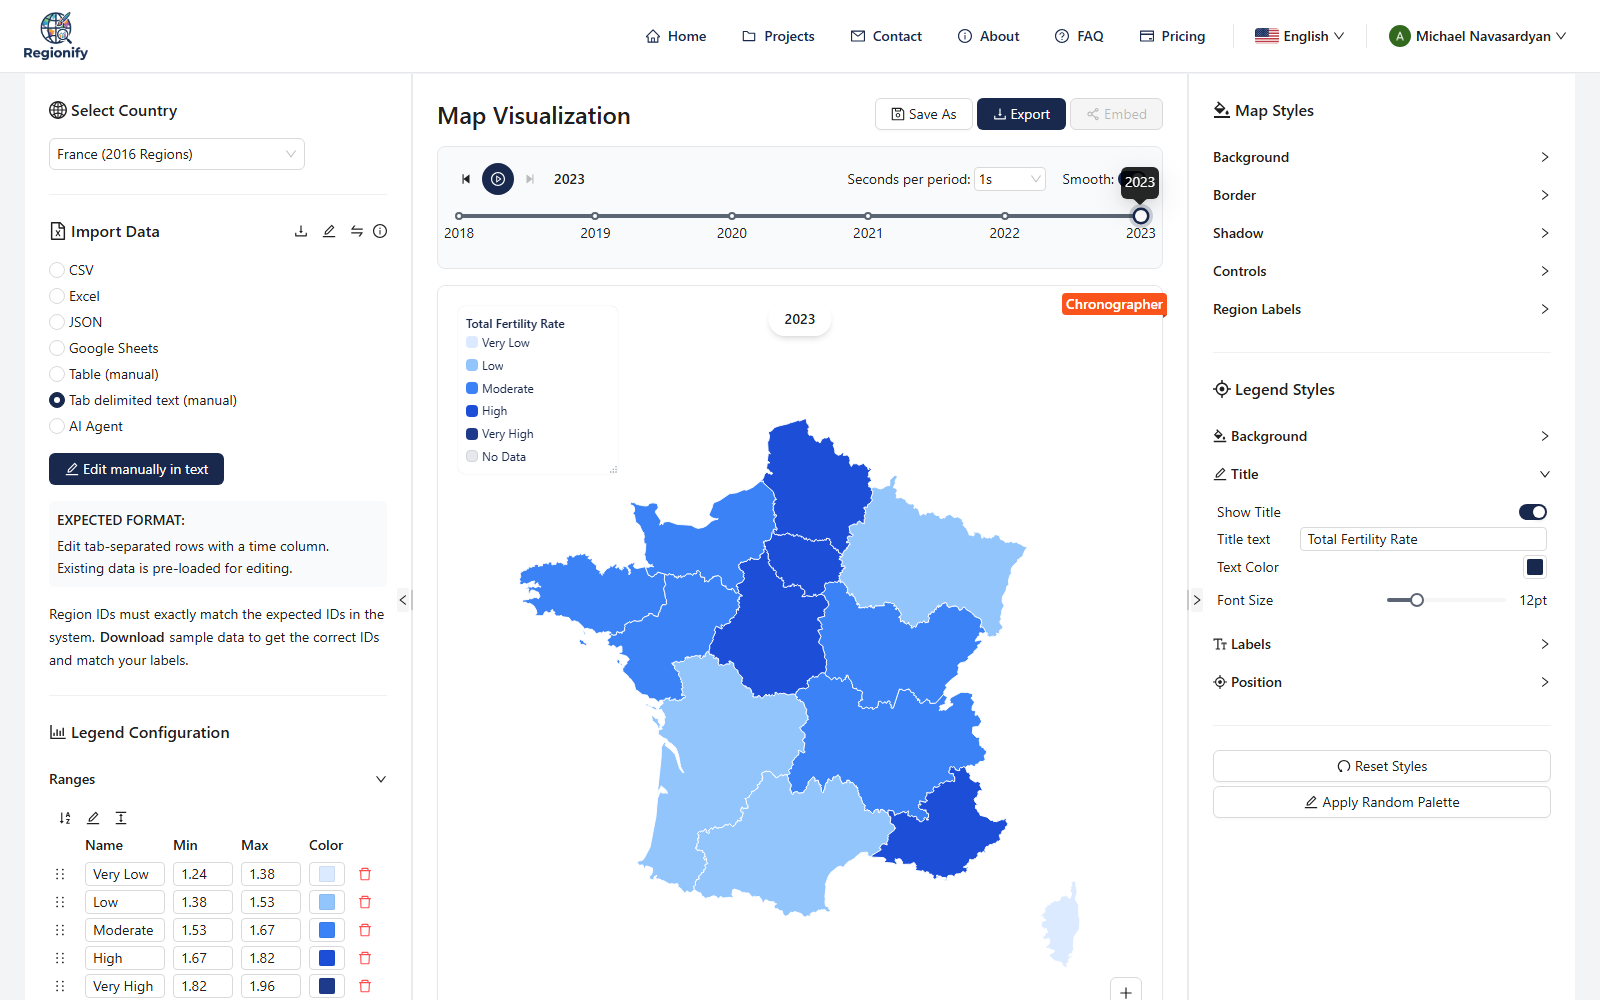
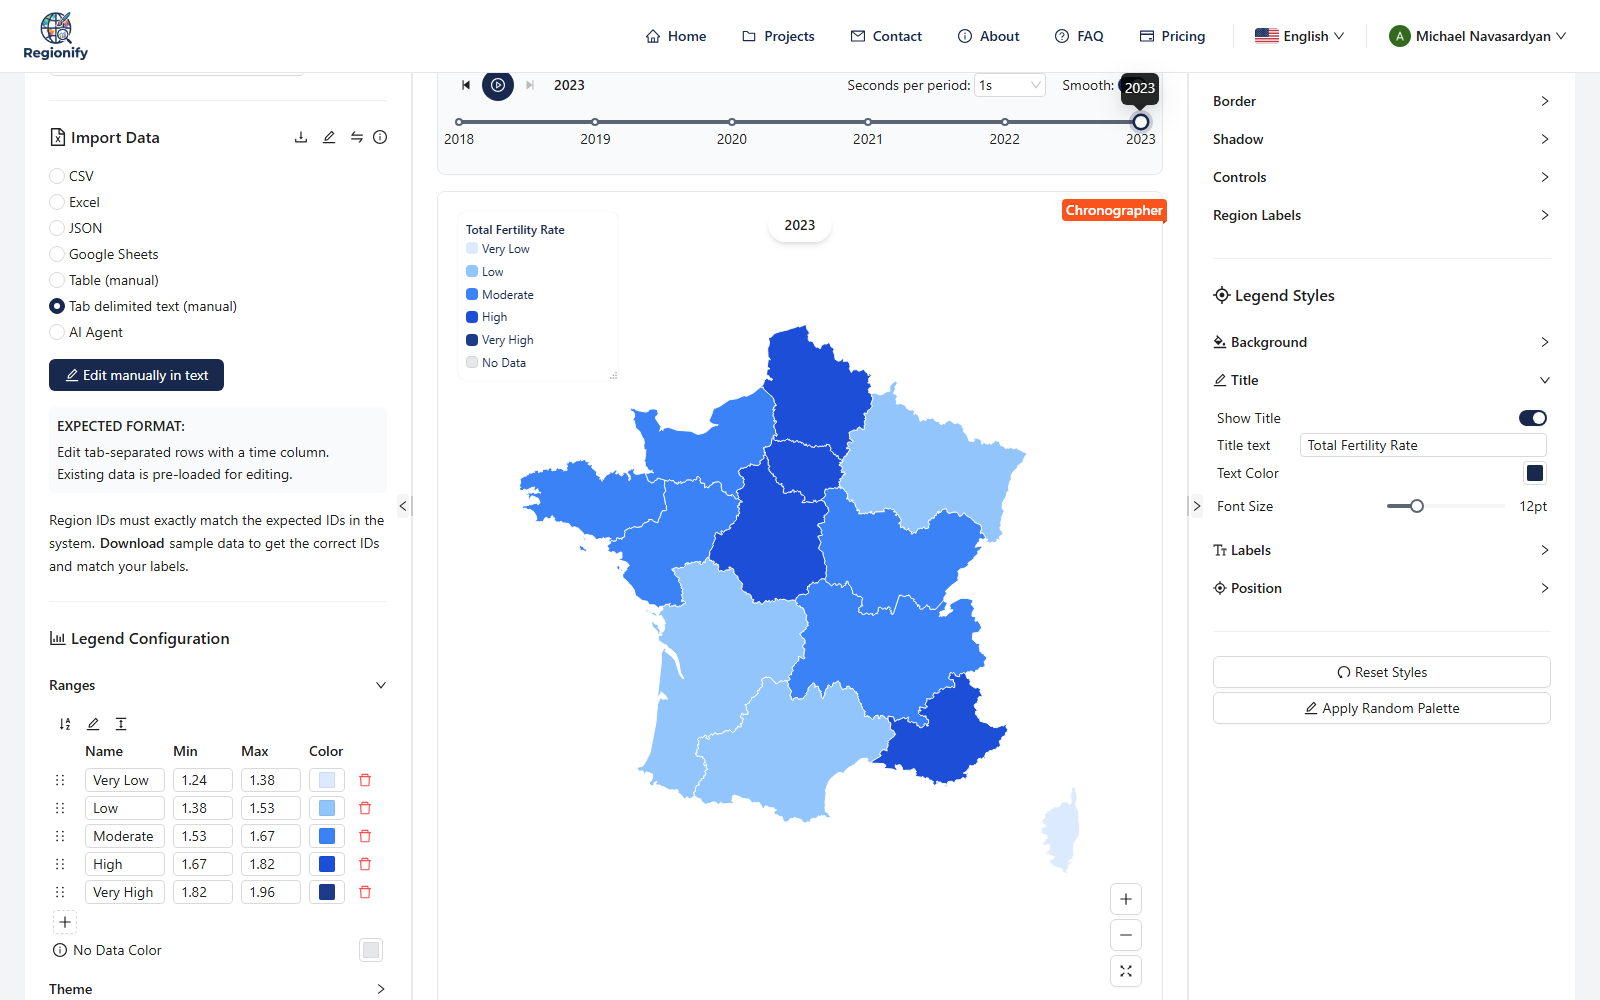
docs(marketing): drop pricing tiers and SVG/GIF aside from embed-guide
Remove the "Which tier you need" breakdown and the "same map as SVG or
GIF" section entirely per feedback — the article stays focused on the
iframe embed with no pricing table. Instead, Step 1 now notes inline
that historical/time-series data carries through to the embed itself,
making it animated and interactive rather than a static snapshot (not
described as a GIF — the embed is an interactive SVG map, not a
raster animation).

Revert the script's GIF-compression (ffmpeg) and SVG-preview
rasterization additions along with their now-unused output files,
since neither is referenced by the article anymore. Keeps the earlier
fixes (full-page embed-modal screenshot, normalize-prompt dismissal,
pre-existing-project cleanup) that are unrelated to this content
change.

diff --git a/marketing/scripts/playwright-oecd-france-fertility.ts b/marketing/scripts/playwright-oecd-france-fertility.ts
@@ -48,8 +48,6 @@
 
 import { chromium, type BrowserContext, type Locator, type Page } from 'playwright';
 import { config as loadEnv } from 'dotenv';
-import ffmpegStaticPath from 'ffmpeg-static';
-import { spawn, spawnSync } from 'node:child_process';
 import { existsSync, mkdirSync, readFileSync, writeFileSync } from 'node:fs';
 import { dirname, join } from 'node:path';
 import { fileURLToPath } from 'node:url';
@@ -719,55 +717,6 @@ async function ensureSaneMapExportFrame(page: Page): Promise<void> {
 // random sample values instead. Use `importSingleYearStaticData` (pastes real values
 // with no year column) to get a real static snapshot instead.
 
-/** Prefers a system `ffmpeg` on PATH, falls back to the bundled `ffmpeg-static` binary
- * (same resolution order as the other marketing scripts' demo-video post-processing). */
-function resolveFfmpegBinary(): string | null {
-  try {
-    const r = spawnSync('ffmpeg', ['-version'], { stdio: 'ignore' });
-    if (r.status === 0) return 'ffmpeg';
-  } catch {
-    // System ffmpeg not on PATH — try bundled binary below.
-  }
-  if (typeof ffmpegStaticPath === 'string' && existsSync(ffmpegStaticPath)) {
-    return ffmpegStaticPath;
-  }
-  return null;
-}
-
-function runFfmpeg(ffmpegBin: string, args: string[]): Promise<void> {
-  return new Promise((resolve, reject) => {
-    const child = spawn(ffmpegBin, args, { stdio: 'ignore' });
-    child.once('error', reject);
-    child.once('close', (code) =>
-      code === 0 ? resolve() : reject(new Error(`ffmpeg exited with code ${code}`)),
-    );
-  });
-}
-
-/**
- * The real export is ~13 MB at full resolution/frame-rate — too heavy to embed inline in
- * the article. Re-encode a small palette-optimized copy (narrower width, lower fps) for
- * that purpose; skip quietly if ffmpeg isn't available anywhere.
- */
-async function makeCompressedGifPreview(sourcePath: string, destPath: string): Promise<void> {
-  const ffmpegBin = resolveFfmpegBinary();
-  if (!ffmpegBin) {
-    log(
-      '⚠ ffmpeg not found — skipping compressed GIF preview (run node node_modules/ffmpeg-static/install.js)',
-    );
-    return;
-  }
-  await runFfmpeg(ffmpegBin, [
-    '-y',
-    '-i',
-    sourcePath,
-    '-vf',
-    'fps=8,scale=640:-1:flags=lanczos,split[s0][s1];[s0]palettegen[p];[s1][p]paletteuse',
-    destPath,
-  ]);
-  log('✓ compressed GIF preview generated');
-}
-
 const ANIMATED_EXPORT_QUALITY = 50;
 
 async function exportGif(page: Page): Promise<void> {
@@ -828,20 +777,6 @@ async function exportSvg(page: Page): Promise<void> {
  * rather than screenshotting the live editor DOM — the editor overlays on-screen-only
  * chrome (the plan-tier ribbon, panel-collapse arrow) that isn't part of the real export.
  */
-async function screenshotSvgPreview(
-  context: BrowserContext,
-  svgPath: string,
-  destPath: string,
-): Promise<void> {
-  const svgPage = await context.newPage();
-  await svgPage.setViewportSize({ width: 1600, height: 1000 });
-  await svgPage.goto(`file://${svgPath.replace(/\\/g, '/')}`);
-  await svgPage.waitForTimeout(300);
-  await svgPage.screenshot({ path: destPath });
-  await svgPage.close();
-  log('✓ SVG preview rendered from the real export');
-}
-
 async function saveProject(page: Page): Promise<void> {
   await page.getByRole('button', { name: 'Save' }).click();
   const modal = page.locator('.ant-modal').filter({ hasText: 'Save Project' });
@@ -979,10 +914,6 @@ async function main(): Promise<void> {
     await ensureSaneMapExportFrame(page);
 
     await exportGif(page);
-    await makeCompressedGifPreview(
-      join(OUTPUT_DIR, 'france-oecd-fertility-animation.gif'),
-      join(UI_SCREENSHOTS_DIR, 'oecd-fertility-gif-preview.gif'),
-    );
 
     // Real single-year snapshot for the static export — NOT "Switch to static data",
     // which discards the dataset and fills it with random sample values (see the note
@@ -991,11 +922,6 @@ async function main(): Promise<void> {
     await normalizeRanges(page);
     await ensureSaneMapExportFrame(page);
     await exportSvg(page);
-    await screenshotSvgPreview(
-      context,
-      join(OUTPUT_DIR, 'france-oecd-fertility.svg'),
-      join(UI_SCREENSHOTS_DIR, 'oecd-fertility-svg-preview.png'),
-    );
 
     // Re-import the same OECD data rather than clicking "Switch to dynamic data" —
     // that toggle synthesizes a brand-new random sample timeline when no historical

diff --git a/docs/marketing/medium/embed-guide/embed-guide.md b/docs/marketing/medium/embed-guide/embed-guide.md
@@ -70,7 +70,7 @@ One thing to get right on paste: region ids need to match the map's own labels e
 
 ![Pasting the OECD fertility time series into Regionify's manual data-entry panel](oecd-fertility-import-panel.png)
 
-Because the dataset spans six years (2018–2023), Regionify automatically drops into **time-series mode** — the timeline scrubber above the map appears the moment it detects more than one time period per region.
+Because the dataset spans six years (2018–2023), Regionify automatically drops into **time-series mode** — the timeline scrubber above the map appears the moment it detects more than one time period per region. That's not just a Studio convenience: the same historical data carries through to the embed, so what you publish later isn't a frozen single-year map but an animated, interactive one that scrubs through every period right on the page you drop it into.
 
 ### Step 2 — Style it
 
@@ -80,7 +80,7 @@ Set a legend title, normalize the color ranges to the data's real min/max, pick 
 
 ### Step 3 — Turn on the public embed
 
-This needs a Chronographer-tier project (see pricing below). Click **Embed**, toggle it on, fill in an SEO title and description (these render server-side, so they're what Google and AI answer engines actually see), choose whether to allow embedding from any origin, and save:
+This needs a Chronographer-tier project. Click **Embed**, toggle it on, fill in an SEO title and description (these render server-side, so they're what Google and AI answer engines actually see), choose whether to allow embedding from any origin, and save:
 
 ![The Public map embed modal, showing SEO fields and the generated iframe code](oecd-fertility-embed-modal.png)
 
@@ -88,7 +88,7 @@ Regionify generates the snippet for you:
 
 ```html
 <iframe
-  src="https://regionify.pro/embed/J8gJQZw5CYNes20XH1z4k68A_T2aWHqn"
+  src="https://regionify.pro/embed/zTLNufClIFF6EqLJGPiGcV08VldjYTOH"
   width="100%"
   height="560"
   style="border:0"
@@ -102,7 +102,7 @@ Copy that snippet into wherever your site accepts raw HTML — a Custom HTML blo
 
 Medium strips raw `<iframe>` tags from published posts, so here's what that snippet actually renders as on a page that allows it — full pan/zoom/hover, timeline included:
 
-[Open the live embed →](https://regionify.pro/embed/J8gJQZw5CYNes20XH1z4k68A_T2aWHqn?utm_source=medium&utm_medium=article&utm_campaign=embed-guide)
+[Open the live embed →](https://regionify.pro/embed/zTLNufClIFF6EqLJGPiGcV08VldjYTOH?utm_source=medium&utm_medium=article&utm_campaign=embed-guide)
 
 ![Screenshot of the live public embed page for the France fertility map](oecd-fertility-embed-page.png)
 
@@ -115,20 +115,6 @@ Medium strips raw `<iframe>` tags from published posts, so here's what that snip
 - **It links back.** The "Made with Regionify" watermark on the embed is a live backlink, so every map you publish is simultaneously a widget on your page and a two-way SEO asset.
 - **It works almost anywhere.** Any site that allows `<iframe>` — no map library, no JavaScript bundle, no API keys to manage on your end.
 
-### No live embed? Same map, as SVG or GIF
-
-The Explorer tier exports the identical styled map as a crisp SVG vector or an animated GIF that plays the full 2018–2023 trend — for README files, PDFs, email, or anywhere `<iframe>` isn't welcome:
-
-![Static SVG export of the 2023 fertility rate map](oecd-fertility-svg-preview.png)
-
-![Animated GIF cycling through fertility rate by région, 2018-2023](oecd-fertility-gif-preview.gif)
-
-### Which tier you need
-
-- **Observer (free)** — static PNG/JPEG/PDF export only. No embed.
-- **Explorer ($49 once)** — adds time-series data import plus the SVG and animated GIF/MP4 export shown above.
-- **Chronographer ($149 once)** — adds the public iframe embed used above, plus a bigger AI-parser allowance.
-
 ### Try it
 
 Pick any map on [Regionify.pro](https://regionify.pro/?utm_source=medium&utm_medium=article&utm_campaign=embed-guide), paste a dataset, and generate your own live embed. If you build something worth sharing, send me the link — I like seeing what people map.
@@ -137,21 +123,19 @@ Pick any map on [Regionify.pro](https://regionify.pro/?utm_source=medium&utm_med
 
 ## Media assets — consolidated brief
 
-| #   | Type        | Placement     | File (relative to this article)   | Notes                                           |
-| --- | ----------- | ------------- | --------------------------------- | ----------------------------------------------- |
-| 1   | Screenshot  | Step 1        | `oecd-fertility-import-panel.png` | Data-import panel, OECD data pasted             |
-| 2   | Screenshot  | Step 2        | `oecd-fertility-styled-map.png`   | Styled 2023 map, panels visible                 |
-| 3   | Screenshot  | Step 3        | `oecd-fertility-embed-modal.png`  | Full-screen shot, embed modal open over the app |
-| 4   | Screenshot  | Step 4        | `oecd-fertility-embed-page.png`   | The live public embed page                      |
-| 5   | Image (PNG) | SVG/GIF aside | `oecd-fertility-svg-preview.png`  | Rasterized preview of the real `.svg` export    |
-| 6   | GIF         | SVG/GIF aside | `oecd-fertility-gif-preview.gif`  | Compressed for inline embedding                 |
+| #   | Type       | Placement | File (relative to this article)   | Notes                                           |
+| --- | ---------- | --------- | --------------------------------- | ----------------------------------------------- |
+| 1   | Screenshot | Step 1    | `oecd-fertility-import-panel.png` | Data-import panel, OECD data pasted             |
+| 2   | Screenshot | Step 2    | `oecd-fertility-styled-map.png`   | Styled 2023 map, panels visible                 |
+| 3   | Screenshot | Step 3    | `oecd-fertility-embed-modal.png`  | Full-screen shot, embed modal open over the app |
+| 4   | Screenshot | Step 4    | `oecd-fertility-embed-page.png`   | The live public embed page                      |
 
 **Source data:** `docs/marketing/assets/data/oecd-fertility-france.csv` — OECD Regional Database, fertility rate (`FERT_RATIO`, `AGE=Total`), TL2 regions, France, 2018–2023. Fetched live from the OECD SDMX API (`OECD.CFE.EDS:DSD_REG_DEMO@DF_FERTILITY`).
 
-**Raw downloadable deliverables** (not embedded in the article itself, but kept for cross-posts or a follow-up "download the files" link):
+**Raw downloadable deliverables** (not used in this iframe-focused version of the article, but kept for cross-posts or a follow-up "other export formats" piece):
 
 - `docs/marketing/medium/embed-guide/france-oecd-fertility.svg` — full-resolution SVG (~60 KB)
-- `docs/marketing/medium/embed-guide/france-oecd-fertility-animation.gif` — full-quality GIF (~13 MB; the compressed preview above is what belongs in the article)
+- `docs/marketing/medium/embed-guide/france-oecd-fertility-animation.gif` — full-quality GIF (~13 MB)
 - `docs/marketing/medium/embed-guide/france-oecd-fertility-embed-url.txt` — the live embed URL
 - `docs/marketing/medium/embed-guide/france-oecd-fertility-embed-code.txt` — the iframe snippet
 
@@ -161,7 +145,7 @@ Pick any map on [Regionify.pro](https://regionify.pro/?utm_source=medium&utm_med
 pnpm --filter @regionify/marketing exec tsx scripts/playwright-oecd-france-fertility.ts
 ```
 
-Requires `marketing/.env` with `CLIENT_URL`, `REGIONIFY_EMAIL`, `REGIONIFY_PASSWORD` (Chronographer-tier account), and `ffmpeg` (system PATH or the bundled `ffmpeg-static` dev dependency) for the compressed GIF preview. The script deletes any pre-existing "France — OECD Fertility Rate (2018–2023)" project itself before creating a fresh one, so re-runs don't pile up duplicates.
+Requires `marketing/.env` with `CLIENT_URL`, `REGIONIFY_EMAIL`, `REGIONIFY_PASSWORD` (Chronographer-tier account). The script deletes any pre-existing "France — OECD Fertility Rate (2018–2023)" project itself before creating a fresh one, so re-runs don't pile up duplicates.
 
 ---
 
@@ -174,10 +158,8 @@ Requires `marketing/.env` with `CLIENT_URL`, `REGIONIFY_EMAIL`, `REGIONIFY_PASSW
 
 ## Compliance checklist (before Publish)
 
-- [ ] All 6 images inserted at their marked positions, each with alt text
-- [ ] GIF renders inline (not as a static first-frame thumbnail) after Medium upload — verify in preview
+- [ ] All 4 images inserted at their marked positions, each with alt text
 - [ ] Live embed URL tested in an incognito window before publishing
 - [ ] UTM link (`embed-guide`) tested — shows up in analytics
-- [ ] Pricing tier claims verified against current Observer/Explorer/Chronographer config
 - [ ] No AI-tone giveaway phrases ("delve", "in the realm of", "furthermore", "it is important to note")
 - [ ] Article read out loud once
